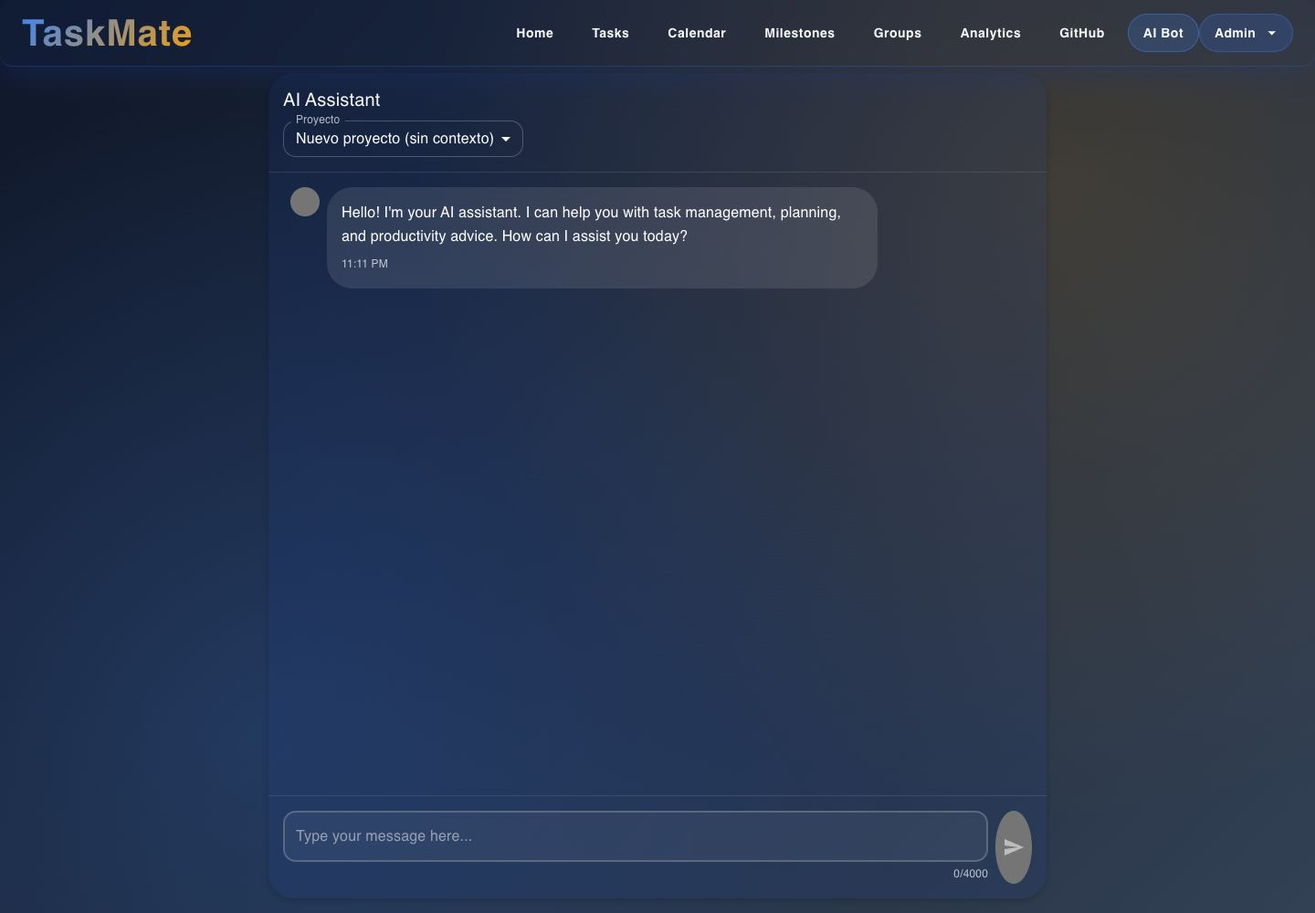
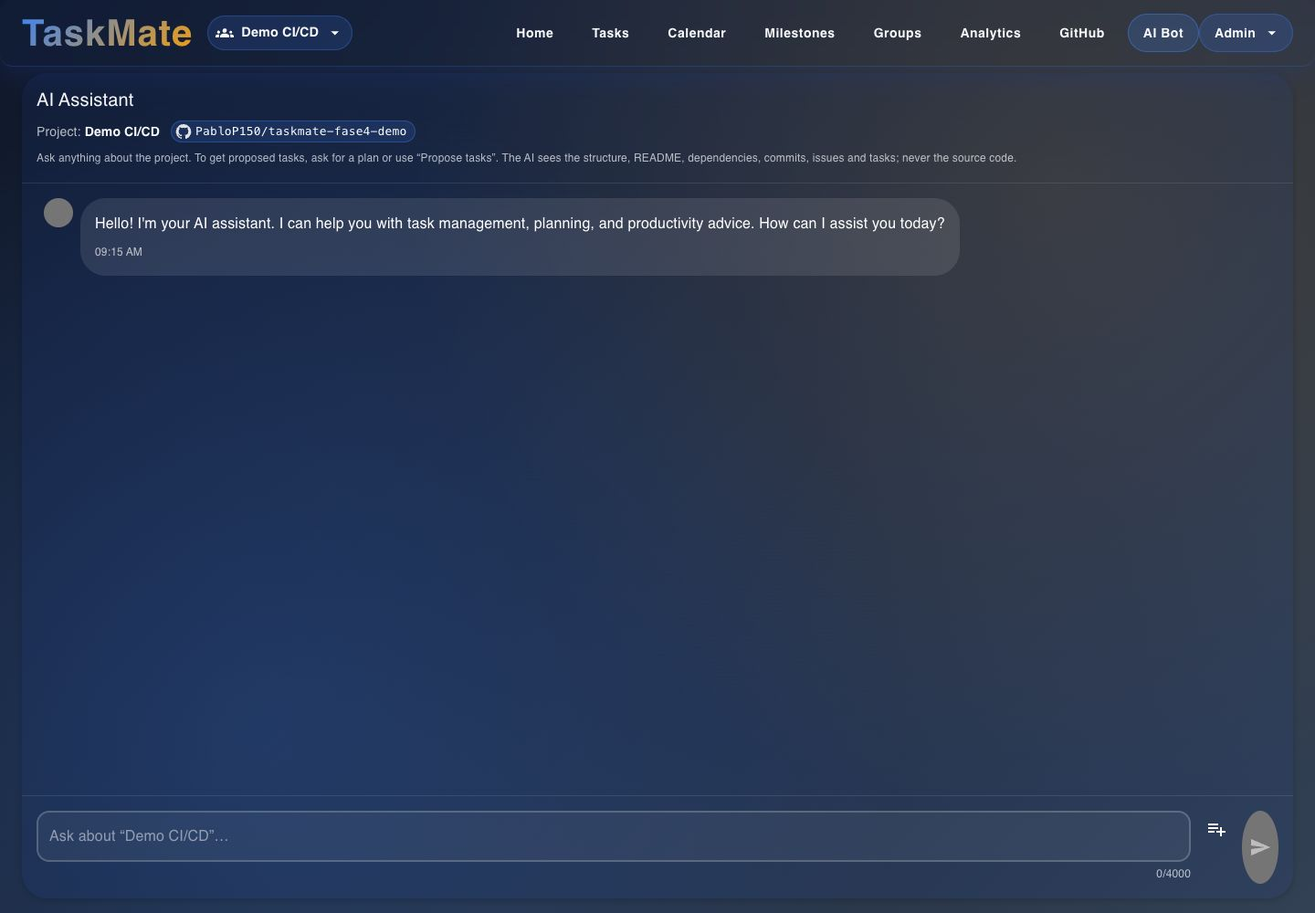
docs: retake the 18 UI screenshots in English and add 3 new ones
The 05-interfaz captures now show the English interface and the navbar group
selector; new: group selector menu, «Task files» with «AI on the branch», and
the «Vercel (monitoring)» tab. Captions describe what each capture shows.

diff --git a/documentacion/05-interfaz/README.md b/documentacion/05-interfaz/README.md
@@ -5,7 +5,7 @@
 ```mermaid
 flowchart LR
     G["00 · Visión general<br/>mapa de pantallas"] --> M["01–10 · Pantallas de cada módulo"]
-    C[("capturas/<br/>18 imágenes del 3–4 nov 2026<br/>(antes de la interfaz en inglés)")] -.-> G
+    C[("capturas/<br/>21 imágenes del 26 nov 2026<br/>(interfaz en inglés)")] -.-> G
     C -.-> M
 ```
 
@@ -34,37 +34,36 @@ flowchart LR
 
 ## Galería de capturas
 
-Capturas JPG de 1440 × 1000 en [`capturas/`](capturas/). El nombre dice quién la ve: `anon-` (sin sesión), `admin-` (admin del grupo) o `miembro-` (un miembro que no es admin).
+Capturas JPG de 1440 × 1000 en [`capturas/`](capturas/), tomadas el **26 nov 2026** con la interfaz en inglés (Chrome sin ventana). El nombre dice quién la ve: `anon-` (sin sesión), `admin-` (admin del grupo) o `miembro-` (`demo-miembro`, que no es admin).
 
-**Son del 3 y 4 nov 2026, anteriores a la interfaz en inglés (19 nov) y al selector de grupo del navbar.** Todavía no se han vuelto a tomar:
+- Las 19 con sesión muestran el selector de grupo junto al logo.
+- Lo que se ve en español son datos (nombres de grupos, tareas, commits y el README del repo de prueba), los pasos del workflow subido el 23 oct («Pruebas», «Instalar dependencias»…) y el botón «Vincular» de Vercel, que la app sigue mostrando así ([limitaciones de la interfaz](../01-proyecto/cierre-del-proyecto.md#interfaz)).
 
-- Ninguna de las 16 con sesión muestra el selector de grupo junto al logo.
-- 9 salen con los textos viejos en español: las de GitHub, las de CI/CD, la del chat y el aviso de analytics.
-- `anon-login` y `anon-registro` siguen al día: «Sign In» y «Create Account» no cambiaron.
-- La columna «Qué cambió» dice qué se ve distinto hoy.
+| Captura | Qué muestra | Página |
+|---|---|---|
+| <img src="capturas/anon-login.jpg" alt="Pantalla Sign In" width="220"> | «Welcome Back» / «Sign In» (`/`), sin sesión, con el enlace «Create Account» | [Usuarios](01-usuarios-y-acceso.md) |
+| <img src="capturas/anon-registro.jpg" alt="Pantalla Create Account" width="220"> | «Create Account» (`/register`): usuario, contraseña y «Confirm Password» | [Usuarios](01-usuarios-y-acceso.md) |
+| <img src="capturas/admin-home.jpg" alt="Inicio del admin con el selector de grupo en Demo CI/CD" width="220"> | Inicio (`/home`) del admin: barra con el selector en «Demo CI/CD», las 8 entradas y el menú «Admin» | [Usuarios](01-usuarios-y-acceso.md) |
+| <img src="capturas/admin-navbar-grupo.jpg" alt="Menú del selector de grupo abierto" width="220"> | El menú del selector de grupo abierto en `/home`: los 7 grupos del admin, palomita en «Demo CI/CD» y «Manage groups» al final | [Visión general](00-general.md), [Grupos](02-grupos-y-roles.md) |
+| <img src="capturas/admin-grupos.jpg" alt="Grupos del admin" width="220"> | `/groups` con «Demo CI/CD» activo: 3 miembros con «Assign/Edit Roles», «Delete Member», «Add User», «Leave Group» y «No roles defined.» con «New Role» | [Grupos](02-grupos-y-roles.md) |
+| <img src="capturas/admin-tareas.jpg" alt="Tareas del admin" width="220"> | `/tasks` del admin en «Fitness App»: «Tasks (5)», la lista «To Do» con 5 tarjetas, sin GitHub | [Tareas](03-tareas.md) |
+| <img src="capturas/miembro-tareas.jpg" alt="Tareas de un miembro" width="220"> | `/tasks` de `demo-miembro` en «Demo CI/CD», sin listas: «Add a list to start» | [Tareas](03-tareas.md) |
+| <img src="capturas/admin-tarea-archivos.jpg" alt="Diálogo Task files de la tarea Pipeline CI" width="220"> | Diálogo «Task files» de la tarea «Pipeline CI» (grupo «E-Component»): aviso de que aún no hay archivos registrados y el bloque «AI on the branch» con «Audit» y «Generate tests» | [GitHub](07-github.md), [IA sobre el código](10-ia-sobre-el-codigo.md) |
+| <img src="capturas/admin-hitos.jpg" alt="Hitos del admin" width="220"> | «Milestone Planner» (`/block-diagram`) en «Fitness App»: 7 hitos, cinco unidos por flechas «Prerequisite» y «Progressor»; «Design Complete» en verde al 100 % | [Hitos](04-hitos-y-calendario.md) |
+| <img src="capturas/admin-calendario.jpg" alt="Calendario" width="220"> | «Your Calendar» en enero de 2026 («Fitness App»): tareas e hitos en su fecha, con Today, Back y Next | [Hitos](04-hitos-y-calendario.md) |
+| <img src="capturas/admin-chat.jpg" alt="Chat con IA" width="220"> | «AI Assistant» con «Project: Demo CI/CD», el chip `PabloP150/taskmate-fase4-demo`, el saludo inicial y el cuadro «Ask about “Demo CI/CD”…» | [Chat](05-chat-ia.md) |
+| <img src="capturas/admin-analytics.jpg" alt="Panel de analytics" width="220"> | «Team Analytics Dashboard» del admin en «Fitness App»: 1 miembro, 5 tareas activas, 0.0 %, la barra del admin y el formulario de recomendaciones | [Analytics](06-analytics.md) |
+| <img src="capturas/miembro-analytics.jpg" alt="Aviso Team leaders only" width="220"> | El aviso «Team leaders only» que ve `demo-miembro` | [Analytics](06-analytics.md) |
+| <img src="capturas/admin-github-repositorio.jpg" alt="Pestaña Repository del admin" width="220"> | GitHub → Repository del admin: «Sync PRs», «Analyze with AI», las 5 pestañas, «Allow AI analysis» encendido y «Disconnect» | [GitHub](07-github.md) |
+| <img src="capturas/miembro-github-repositorio.jpg" alt="Pestaña Repository de un miembro" width="220"> | Repository de un miembro: «AI analysis: allowed» en lugar del interruptor y sin «Disconnect» | [GitHub](07-github.md) |
+| <img src="capturas/admin-github-archivos.jpg" alt="Pestaña Files" width="220"> | Files: árbol con «Filter files…» y el README con «View on GitHub» | [GitHub](07-github.md) |
+| <img src="capturas/admin-github-commits.jpg" alt="Pestaña Commits" width="220"> | Commits: «Recent commits» de `main`, con autor y fechas como «last month» | [GitHub](07-github.md) |
+| <img src="capturas/admin-github-cicd.jpg" alt="Pestaña CI/CD del admin" width="220"> | CI/CD del admin: «CI/CD pipeline» con «Edit pipeline», «Environments» con «Publish to production» y «Rollback…», «Production requests» y «Deploy history» | [CI/CD](08-cicd.md) |
+| <img src="capturas/admin-github-cicd-ejecucion.jpg" alt="Ejecución TaskMate CI/CD #9 fallida en el paso Pruebas" width="220"> | La ejecución «TaskMate CI/CD #9» (manual, rama `e2e/prueba-falla`) abierta: el job «CI (Node.js)» falló en «Pruebas», con sus anotaciones, «Re-run failed», «Hide log» y «Errors only» | [CI/CD](08-cicd.md) |
+| <img src="capturas/miembro-github-cicd.jpg" alt="Pestaña CI/CD de un miembro" width="220"> | CI/CD de un miembro: «Request production» en vez de «Publish to production», sin «Edit pipeline» ni «Rollback…»; abajo, «Runs» con «Run pipeline» | [CI/CD](08-cicd.md) |
+| <img src="capturas/admin-github-vercel.jpg" alt="Pestaña Vercel (monitoring) sin proyecto vinculado" width="220"> | «Vercel (monitoring)» del admin sin proyecto vinculado: la tarjeta «Deployments», el aviso para pegar el Project ID, el campo «Vercel Project ID» y «Vincular» | [CI/CD](08-cicd.md) |
 
-| Captura | Qué muestra | Qué cambió | Página |
-|---|---|---|---|
-| <img src="capturas/anon-login.jpg" alt="Pantalla Sign In" width="220"> | «Sign In» (`/`), sin sesión | Nada | [Usuarios](01-usuarios-y-acceso.md) |
-| <img src="capturas/anon-registro.jpg" alt="Pantalla Create Account" width="220"> | «Create Account» (`/register`), sin sesión | Nada | [Usuarios](01-usuarios-y-acceso.md) |
-| <img src="capturas/admin-home.jpg" alt="Inicio del admin" width="220"> | Inicio (`/home`) con la barra de navegación | Falta el selector de grupo junto al logo | [Usuarios](01-usuarios-y-acceso.md) |
-| <img src="capturas/admin-grupos.jpg" alt="Grupos del admin" width="220"> | `/groups` con «Demo CI/CD» como grupo activo | Ya no hay botones «Use»: basta un clic en el grupo. «Assign/Edit Rol» ahora es «Assign/Edit Roles» | [Grupos](02-grupos-y-roles.md) |
-| <img src="capturas/admin-tareas.jpg" alt="Tareas del admin" width="220"> | `/tasks` del admin, grupo «Fitness App» | Solo falta el selector de grupo | [Tareas](03-tareas.md) |
-| <img src="capturas/miembro-tareas.jpg" alt="Tareas de un miembro" width="220"> | `/tasks` de un miembro en «Demo CI/CD», sin listas todavía | Solo falta el selector de grupo | [Tareas](03-tareas.md) |
-| <img src="capturas/admin-hitos.jpg" alt="Hitos del admin" width="220"> | «Milestones»: barra para crear hitos y lienzo | Solo falta el selector de grupo | [Hitos](04-hitos-y-calendario.md) |
-| <img src="capturas/admin-calendario.jpg" alt="Calendario" width="220"> | «Calendar»: vista de mes con Today, Back y Next | Solo falta el selector de grupo | [Hitos](04-hitos-y-calendario.md) |
-| <img src="capturas/admin-chat.jpg" alt="Chat con IA" width="220"> | «AI Bot»: saludo inicial, sin proyecto de contexto | Ya no existe el selector «Proyecto» / «Nuevo proyecto (sin contexto)»: arriba dice «Project: &lt;grupo del navbar&gt;». El cuadro dice «Ask about “&lt;grupo&gt;”…» («Type your message…» sin grupo; antes «Type your message here...») y el chat ocupa todo el ancho | [Chat](05-chat-ia.md) |
-| <img src="capturas/admin-analytics.jpg" alt="Panel de analytics" width="220"> | Panel de analytics que ve el admin (es líder) | Solo falta el selector de grupo | [Analytics](06-analytics.md) |
-| <img src="capturas/miembro-analytics.jpg" alt="Aviso Team leaders only" width="220"> | Aviso que ve un miembro sin rol de líder | Sale en español («Solo líderes del equipo»); hoy dice «Team leaders only» | [Analytics](06-analytics.md) |
-| <img src="capturas/admin-github-repositorio.jpg" alt="Pestaña Repository del admin" width="220"> | GitHub → Repository, vista del admin | En español: hoy «Group: …», «Sync PRs», «Analyze with AI», «Repository», «Files» y «Allow AI analysis». El aviso de la IA ya no nombra a Groq. Falta la pestaña «Vercel (monitoring)» | [GitHub](07-github.md) |
-| <img src="capturas/miembro-github-repositorio.jpg" alt="Pestaña Repository de un miembro" width="220"> | Repository, vista de un miembro: sin «Disconnect» | En español, como la del admin; el estado que ve el miembro hoy dice «AI analysis: allowed». Falta la pestaña «Vercel (monitoring)» | [GitHub](07-github.md) |
-| <img src="capturas/admin-github-archivos.jpg" alt="Pestaña Files" width="220"> | Files: árbol y README | Encabezado y pestañas en español; falta «Vercel (monitoring)» | [GitHub](07-github.md) |
-| <img src="capturas/admin-github-commits.jpg" alt="Pestaña Commits" width="220"> | Commits de la rama por defecto | En español: hoy «Recent commits» y fechas como «2 weeks ago» | [GitHub](07-github.md) |
-| <img src="capturas/admin-github-cicd.jpg" alt="Pestaña CI/CD del admin" width="220"> | CI/CD del admin: pipeline, entornos y ejecuciones | En español: hoy «CI/CD pipeline», «Edit pipeline», «Environments», «Publish to production», «Deploy history» y «Runs». Las etapas salen en inglés, salvo «Pruebas» | [CI/CD](08-cicd.md) |
-| <img src="capturas/admin-github-cicd-ejecucion.jpg" alt="Detalle de una ejecución" width="220"> | Una ejecución abierta, con sus jobs y su log | «Ocultar log» y «Solo errores» ahora son «Hide log» y «Errors only». El nombre del job sale del YAML subido: con un pipeline subido después del cambio es «Deploy build», no «Build del deploy» | [CI/CD](08-cicd.md) |
-| <img src="capturas/miembro-github-cicd.jpg" alt="Pestaña CI/CD de un miembro" width="220"> | CI/CD de un miembro: «Request production» en vez de «Publish to production» | En español: hoy «Request production» y «Run pipeline» | [CI/CD](08-cicd.md) |
-
-No hay captura del aviso en vivo (módulo 9), del menú del selector de grupo, de la pestaña «Vercel (monitoring)», del diálogo «Task files» ni del panel «AI on the branch». Su aspecto se describe en sus páginas.
+No hay captura del aviso en vivo (módulo 9), de un diálogo «Task files» con archivos, de los resultados de «Audit», «Generate tests» y «Review PR», ni de «Vercel (monitoring)» con un proyecto vinculado. Su aspecto se describe en sus páginas.
 
 ## Diagramas e imágenes
 

diff --git a/documentacion/05-interfaz/08-cicd.md b/documentacion/05-interfaz/08-cicd.md
@@ -4,21 +4,25 @@
 
 ## Pantallas
 
-Las tres capturas son del 3 nov 2026, de antes de pasar la interfaz al inglés (19 nov 2026): en ellas los botones se ven en español. Abajo se citan los textos de ahora.
+Capturas del 26 nov 2026, grupo «Demo CI/CD» con el repositorio `PabloP150/taskmate-fase4-demo`. El pipeline se subió el 23 oct, antes del cambio de idioma, así que la etapa y los pasos que vienen del YAML conservan sus nombres en español («Pruebas», «Instalar dependencias», «Análisis estático»).
 
-**Vista del admin:** tarjeta **CI/CD pipeline** con «Edit pipeline», y tarjeta **Environments** con «Publish to production», «Rollback…», las **Production requests** y el «Deploy history». La lista de **Runs** sigue debajo.
+**Vista del admin:** tarjeta **CI/CD pipeline** con sus etapas, «Configured by», el archivo `.github/workflows/taskmate-ci.yml`, «Site:» y «Edit pipeline»; tarjeta **Environments** con staging y producción en «Live», «Publish to production», «Rollback…», las **Production requests** (una «Rejected» y una «Approved») y el «Deploy history». La lista de **Runs** sigue debajo.
 
-![Pestaña CI/CD vista por el admin del grupo](capturas/admin-github-cicd.jpg)
+![Pestaña CI/CD vista por el admin: CI/CD pipeline, Environments con staging y producción en Live, Production requests y Deploy history](capturas/admin-github-cicd.jpg)
 
-**Una ejecución abierta:** el job «Deploy build» con sus pasos (los saltados llevan un círculo gris) y su log abierto, con «Hide log» y «Errors only». En la captura el job se llama «Build del deploy»: es un workflow subido antes del cambio de idioma.
+**Una ejecución abierta:** «TaskMate CI/CD #9», lanzada a mano en la rama `e2e/prueba-falla`. El job «CI (Node.js)» falló en el paso «Pruebas»; los pasos saltados («Build», «Post Node.js 24») llevan un círculo gris. Debajo, las anotaciones (dos «Error» y un «Notice» con archivo y línea), «Hide log», el interruptor «Errors only» y el log abierto. Arriba, «View the run on GitHub» y «Re-run failed».
 
-![Detalle de una ejecución con sus jobs](capturas/admin-github-cicd-ejecucion.jpg)
+![Ejecución TaskMate CI/CD #9 en la rama e2e/prueba-falla: el job CI (Node.js) falló en el paso Pruebas, con sus anotaciones y el log abierto](capturas/admin-github-cicd-ejecucion.jpg)
 
-**Vista de un miembro:** sin «Edit pipeline» ni «Rollback…»; en staging aparece «Request production» en lugar de «Publish to production». «Run pipeline» sigue disponible.
+**Vista de un miembro:** sin «Edit pipeline» ni «Rollback…»; en staging aparece «Request production» en lugar de «Publish to production». «Run pipeline» sigue disponible, abajo en **Runs**, junto a los filtros «Workflow» y «Status».
 
-![Pestaña CI/CD vista por un miembro](capturas/miembro-github-cicd.jpg)
+![Pestaña CI/CD vista por un miembro: Request production en staging, sin Edit pipeline ni Rollback, y Run pipeline en Runs](capturas/miembro-github-cicd.jpg)
 
-**Pestaña Vercel (monitoring)** (todavía sin captura): una tarjeta **Deployments** con «Vercel project: <id>», «Refresh» y, solo para el admin, «Unlink». Debajo, hasta 20 despliegues, del más nuevo al más viejo.
+**Pestaña Vercel (monitoring), sin proyecto vinculado (admin):** la tarjeta **Deployments** con el aviso «Paste the Vercel Project ID (Settings → General) and add the webhook /api/deploy/webhook/vercel in Vercel for deployment events.», el campo «Vercel Project ID» y el botón «Vincular», que la app todavía muestra en español.
+
+![Pestaña Vercel (monitoring) del admin sin proyecto vinculado: aviso, campo Vercel Project ID y botón Vincular](capturas/admin-github-vercel.jpg)
+
+**Con un proyecto vinculado** (sin captura): la misma tarjeta **Deployments** con «Vercel project: <id>», «Refresh» y, solo para el admin, «Unlink». Debajo, hasta 20 despliegues, del más nuevo al más viejo.
 
 ## Qué puedes hacer
 

diff --git a/documentacion/05-interfaz/07-github.md b/documentacion/05-interfaz/07-github.md
@@ -4,27 +4,31 @@
 
 ## Pantallas
 
-Las capturas son del 3–4 nov 2026, de antes de pasar la interfaz al inglés (19 nov): sus textos están en español. Los textos citados en esta página son los actuales.
+Capturas del 26 nov 2026, grupo «Demo CI/CD» con el repositorio `PabloP150/taskmate-fase4-demo`.
 
-**Repository, vista del admin.** Arriba, «Sync PRs» y «Analyze with AI». En la tarjeta: el interruptor «Allow AI analysis», los datos del repositorio y «Disconnect».
+**Repository, vista del admin.** Arriba, «GitHub» con el chip «Group: Demo CI/CD», «Sync PRs» y «Analyze with AI», y las 5 pestañas. En la tarjeta: el repositorio («Public»), el interruptor «Allow AI analysis» encendido, «Default branch», «App installation», «Connected by» y «Disconnect».
 
 ![Pestaña Repository vista por el admin](capturas/admin-github-repositorio.jpg)
 
-**Repository, vista de un miembro.** Los mismos datos y los mismos botones de arriba. En lugar del interruptor dice «AI analysis: allowed» (u «off») y «Only the group admin can change this permission.». No hay «Disconnect».
+**Repository, vista de un miembro.** Los mismos datos y los mismos botones de arriba. En lugar del interruptor dice «AI analysis: allowed» (u «off») y, al final del texto de abajo, «Only the group admin can change this permission.». No hay «Disconnect».
 
 ![Pestaña Repository vista por un miembro](capturas/miembro-github-repositorio.jpg)
 
-**Files.** Árbol con filtro («Filter files…») a la izquierda; a la derecha, el README o el archivo elegido, con «View on GitHub».
+**Files.** Árbol con filtro («Filter files…») y el botón «README» a la izquierda; a la derecha, el README o el archivo elegido, con su tamaño y «View on GitHub». El README del repo de prueba está en español.
 
 ![Pestaña Files con el README](capturas/admin-github-archivos.jpg)
 
-**Commits.** «Recent commits» de la rama por defecto, con su autor y hace cuánto (en inglés: «2 weeks ago», «just now»).
+**Commits.** «Recent commits» de la rama por defecto, con el SHA corto, el mensaje, el autor y hace cuánto (en inglés: «last month», «2 months ago»). Los mensajes son los del repo, en español.
 
 ![Pestaña Commits](capturas/admin-github-commits.jpg)
 
 Las pestañas CI/CD y «Vercel (monitoring)» son del módulo [CI/CD](08-cicd.md).
 
-**Task files.** Diálogo que abre el icono «View task files» de una tarea en `/tasks`: título «Task files» con el nombre de la tarea y el enlace «PR #N»; debajo, «N files» con el total de +/− y la lista de archivos. Abajo va el panel «AI on the branch». No hay captura todavía.
+**Task files.** Diálogo que abre el icono «View task files» de una tarea en `/tasks`: título «Task files» con el nombre de la tarea y, si hay PR, el enlace «PR #N»; debajo, «N files» con el total de +/− y la lista de archivos. Abajo va el panel «AI on the branch».
+
+![Diálogo Task files de la tarea Pipeline CI: aviso de que no hay archivos registrados y el bloque AI on the branch con Audit y Generate tests](capturas/admin-tarea-archivos.jpg)
+
+En la captura (grupo «E-Component», tarea «Pipeline CI») la rama aún no tiene PR ni archivos registrados: sale el aviso «This task has no recorded files yet. They are recorded automatically when the pull request of its branch is merged.» y, abajo, «AI on the branch» con «Audit» y «Generate tests», sin «Review PR».
 
 ## Qué puedes hacer
 

diff --git a/documentacion/05-interfaz/00-general.md b/documentacion/05-interfaz/00-general.md
@@ -62,7 +62,7 @@ flowchart TD
 |---|---|
 | ![Pantalla de login](capturas/anon-login.jpg) | ![Pantalla de inicio de un admin](capturas/admin-home.jpg) |
 
-Las capturas son del 3–4 nov 2026, anteriores a la interfaz en inglés: en la de Inicio todavía no está el selector de grupo junto al logo ([qué cambió en cada captura](README.md#galería-de-capturas)).
+Capturas del 26 nov 2026. En Inicio, junto al logo, el selector de grupo muestra «Demo CI/CD» ([todas las capturas](README.md#galería-de-capturas)).
 
 ## El marco común
 
@@ -74,6 +74,10 @@ Con sesión, todas las pantallas comparten cuatro piezas:
 | **Selector de grupo** (junto al logo) | Muestra el grupo activo, o «Select a group» si no hay. Su menú lista tus grupos, con una palomita en el activo, y termina en **Manage groups**, que lleva a `/groups`. Elegir otro grupo cambia el de todas las pantallas. No tiene opción «ninguno» | `src/components/NavGroupSelector.jsx` |
 | **Grupo activo** | El grupo con el que trabajan Tasks, Calendar, Milestones, Analytics, GitHub y el chat. Se cambia con el selector de grupo o con un clic en el grupo dentro de **Groups**. Al iniciar sesión se activa el primer grupo de tu lista | `src/components/GroupContext.jsx` |
 | **Avisos de CI/CD** | Mensajes abajo a la derecha (fallos, deploys, solicitudes). **View** activa ese grupo y abre su pestaña CI/CD; **Open site** abre el sitio publicado, si el aviso lo trae | `src/components/realtime/CicdNotifications.jsx` |
+
+**El selector de grupo abierto** (aquí en `/home`): los 7 grupos del admin, la palomita en el activo («Demo CI/CD») y, separado abajo, «Manage groups».
+
+![Menú del selector de grupo abierto junto al logo: siete grupos, palomita en Demo CI/CD y Manage groups al final](capturas/admin-navbar-grupo.jpg)
 
 - Sin grupo activo, cada pantalla pide elegir uno (por ejemplo, «Select a group to manage tasks.»). Casi no pasa: al registrarte se crea tu grupo personal y al iniciar sesión se activa el primero.
 - El chat no tiene selector propio: usa el grupo del navbar, lo muestra arriba como «Project: &lt;grupo&gt;» y cambia de proyecto cuando cambias el grupo. «Analyze with AI» de `/github` también fija ese grupo antes de abrir el chat.
@@ -104,9 +108,7 @@ Con sesión, todas las pantallas comparten cuatro piezas:
 
 | Admin (cuenta como líder) | Miembro sin rol de líder |
 |---|---|
-| ![Panel de analytics que ve el admin](capturas/admin-analytics.jpg) | ![Aviso «Team leaders only» que ve un miembro (captura anterior, en español)](capturas/miembro-analytics.jpg) |
-
-La captura del miembro es del 4 nov 2026 y todavía dice «Solo líderes del equipo». Hoy dice «Team leaders only».
+| ![Panel de analytics que ve el admin](capturas/admin-analytics.jpg) | ![Aviso «Team leaders only» que ve un miembro](capturas/miembro-analytics.jpg) |
 
 ## Rutas que redirigen
 

diff --git a/documentacion/05-interfaz/06-analytics.md b/documentacion/05-interfaz/06-analytics.md
@@ -4,16 +4,13 @@
 
 ## Pantallas
 
-**Panel del líder (`/analytics`).** El admin es líder de su grupo. Arriba, tres tarjetas: 1 miembro, 5 tareas activas y 0.0 % de avance. «Category Expertise» muestra al mejor de cada categoría (aquí, frontend con 60/100). Abajo está el formulario de recomendaciones.
-- La captura es del 3 nov 2026, de antes de la corrección del 4 nov: ahí «Team Workload Distribution» sale vacía («No workload data available») porque solo contaba a los miembros con al menos un rol en el grupo, y la experiencia sumaba todos los grupos de la persona. Hoy el panel muestra una barra por cada miembro.
-- Los textos del panel no cambiaron con la interfaz en inglés, pero la barra todavía no tenía el selector de grupo junto al logo.
+**Panel del líder (`/analytics`).** El admin es líder de su grupo, aquí «Fitness App». Arriba, tres tarjetas: 1 miembro, 5 tareas activas y 0.0 % de avance. «Team Workload Distribution» tiene una barra, la del admin («No role», «0/5 (0%)»), y «Category Expertise» dice «No expertise data available». Abajo está el formulario «AI Task Assignment Recommendations».
 
 ![Panel de analytics del admin](capturas/admin-analytics.jpg)
 
-**Vista de un miembro (`/analytics`).** La API responde 403 y la pantalla lo cambia por un aviso: «Team leaders only» y, debajo, «The analytics dashboard is only available to the group leader. Ask your leader to review the metrics, or switch to a group you manage.». El navegador igual registra el 403 en la consola.
-- La captura es del 4 nov 2026, anterior a la interfaz en inglés: muestra el aviso viejo en español («Solo líderes del equipo») y la barra sin el selector de grupo.
+**Vista de un miembro (`/analytics`).** La API responde 403 y la pantalla lo cambia por un aviso: «Team leaders only» y, debajo, «The analytics dashboard is only available to the group leader. Ask your leader to review the metrics, or switch to a group you manage.». El navegador igual registra el 403 en la consola. En la captura, `demo-miembro` con «Demo CI/CD».
 
-![Aviso para un miembro, todavía en español («Solo líderes del equipo»); hoy dice «Team leaders only»](capturas/miembro-analytics.jpg)
+![Aviso «Team leaders only» que ve demo-miembro en el grupo Demo CI/CD](capturas/miembro-analytics.jpg)
 
 Partes del panel, de arriba abajo:
 - **Encabezado:** «Team Analytics Dashboard», el filtro de rol («All Roles») y el botón «Refresh».

diff --git a/documentacion/05-interfaz/04-hitos-y-calendario.md b/documentacion/05-interfaz/04-hitos-y-calendario.md
@@ -6,23 +6,22 @@
 
 **Hitos: `/block-diagram`** (menú «Milestones» o tarjeta «Milestone Viewer» del inicio)
 
-![Pantalla de hitos: barra para crear hitos, botón Import Task y lienzo de React Flow](capturas/admin-hitos.jpg)
+![Pantalla Milestone Planner del grupo Fitness App: barra para crear hitos, botón Import Task y siete hitos, cinco de ellos unidos por flechas](capturas/admin-hitos.jpg)
 
 - Barra de arriba: nombre, descripción, fecha y el botón para crear. El botón dice qué falta: «Select a group first», «Name required» o «Date required»; con todo listo dice «Add Milestone».
 - «Import Task»: lista las tareas del grupo que todavía no son hito.
 - Lienzo: cada tarjeta muestra nombre, descripción, «Deadline», «Progress: N %» y el botón «Edit». Con 100 % se pone verde y dice «✓ Completed».
 - Cada flecha lleva una etiqueta, «Prerequisite» o «Progressor». Un clic la cambia.
 - Abajo a la izquierda: acercar, alejar, ajustar a la vista y bloquear el lienzo.
-- En la captura el grupo activo todavía no tiene hitos.
-- La captura es del 3 nov 2026: los textos de la pantalla no cambiaron, pero la barra todavía no tenía el selector de grupo junto al logo.
+- En la captura (título «Milestone Planner», grupo «Fitness App») hay 7 hitos: cinco unidos por cuatro flechas (tres «Prerequisite» y una «Progressor») y dos sueltos, «Setup Done» y «Launch Ready»; «Design Complete» está al 100 %, en verde. El botón de crear dice «Name required» porque la barra está vacía.
 
 **Calendario: `/calendar`** (menú «Calendar» o tarjeta «Calendar View» del inicio)
 
-![Pantalla del calendario: vista de mes con los botones Today, Back y Next](capturas/admin-calendario.jpg)
+![Pantalla Your Calendar en enero de 2026: vista de mes con Today, Back y Next y las fechas de tareas e hitos de Fitness App](capturas/admin-calendario.jpg)
 
 - Solo vista de mes, con «Today», «Back» y «Next».
 - Cada evento es un hito o una tarea activa, con su nombre, en su fecha. Es de solo lectura.
-- En la captura el grupo activo no tiene fechas en noviembre de 2026. Es del 3 nov 2026, anterior al selector de grupo de la barra.
+- En la captura («Your Calendar», grupo «Fitness App») se ve enero de 2026 con tareas («Implement Core», «Test Core», «Test Advanced») e hitos («Core Features», «Advanced Features») en su fecha.
 
 ## Qué puedes hacer
 

diff --git a/documentacion/05-interfaz/10-ia-sobre-el-codigo.md b/documentacion/05-interfaz/10-ia-sobre-el-codigo.md
@@ -4,9 +4,11 @@
 
 ## Pantallas
 
-**No hay captura propia de este módulo.** Las capturas de [`capturas/`](capturas/) son del 3 y 4 nov 2026, antes de que existiera este panel y de que la interfaz pasara al inglés. Esta es la descripción del panel según el código (`TaskAiPanel.jsx`).
+![Diálogo Task files de la tarea Pipeline CI con el bloque AI on the branch: botones Audit y Generate tests](capturas/admin-tarea-archivos.jpg)
 
-**Cómo se llega.** En `/tasks`, una tarea con rama muestra el botón-icono «View task files» junto al chip de la rama. Abre el diálogo «Task files», con el nombre de la tarea y el enlace «PR #N». Arriba van los archivos de la tarea ([módulo GitHub](07-github.md)); debajo, el panel «AI on the branch».
+*Captura del 26 nov 2026: el diálogo «Task files» de la tarea «Pipeline CI» (grupo «E-Component»), todavía sin archivos registrados. Abajo, el bloque «AI on the branch» con «Audit» y «Generate tests»; «Review PR» no sale porque la tarea no tiene un PR abierto. No hay captura de los resultados: lo que sigue los describe según el código (`TaskAiPanel.jsx`).*
+
+**Cómo se llega.** En `/tasks`, una tarea con rama muestra el botón-icono «View task files» junto al chip de la rama. Abre el diálogo «Task files», con el nombre de la tarea y, si hay PR, el enlace «PR #N». Arriba van los archivos de la tarea ([módulo GitHub](07-github.md)); debajo, el panel «AI on the branch».
 
 **El panel.** El título «AI on the branch» y tres botones:
 

diff --git a/documentacion/05-interfaz/02-grupos-y-roles.md b/documentacion/05-interfaz/02-grupos-y-roles.md
@@ -4,7 +4,11 @@
 
 ![Pantalla de grupos vista por el admin](capturas/admin-grupos.jpg)
 
-*Admin en `/groups`. A la izquierda, la lista de sus grupos; «Demo CI/CD» es el grupo activo. A la derecha, sus tres miembros y la sección **Group Roles**, todavía sin roles. La captura es del 3 nov 2026, anterior a la interfaz en inglés: todavía muestra los botones **Use** (ya no existen: basta un clic en el grupo), «Assign/Edit Rol» (hoy «Assign/Edit Roles») y la barra sin el selector de grupo ([qué cambió en cada captura](README.md#galería-de-capturas)).*
+*Admin en `/groups`. A la izquierda, la tarjeta **Groups** con sus 7 grupos y **Create**; «Demo CI/CD» es el activo y también sale en el selector junto al logo. A la derecha, **Delete Member**, **Add User** y **Leave Group**, sus tres miembros (`e2e-miembro`, `Admin` y `demo-miembro`), cada uno con su insignia y «Assign/Edit Roles», y la sección **Group Roles** con «No roles defined.» y **New Role**.*
+
+![Menú del selector de grupo abierto: siete grupos, palomita en Demo CI/CD y Manage groups al final](capturas/admin-navbar-grupo.jpg)
+
+*El selector de grupo abierto junto al logo (aquí en `/home`): los mismos 7 grupos, con la palomita en el activo, y **Manage groups** al final, que lleva a esta pantalla.*
 
 ```mermaid
 flowchart TD

diff --git a/documentacion/05-interfaz/03-tareas.md b/documentacion/05-interfaz/03-tareas.md
@@ -12,7 +12,9 @@
 
 ![Pantalla de tareas de un miembro](capturas/miembro-tareas.jpg)
 
-Las dos capturas son del 3 y 4 nov 2026, antes de la interfaz en inglés. Los textos que se ven en ellas ya estaban en inglés y no cambiaron, pero la navbar todavía no tenía el selector de grupo.
+**Diálogo «Task files» (`/tasks`, grupo «E-Component»).** Se abrió con «View task files» en la tarea «Pipeline CI». Su rama todavía no tiene archivos registrados, así que sale el aviso «This task has no recorded files yet…»; debajo, «AI on the branch» con «Audit» y «Generate tests» («Review PR» no aparece: no hay PR abierto). Atrás se ven otras tarjetas del grupo; las que aún no tienen rama llevan un quinto botón, «Create branch on GitHub», y una muestra el chip de su rama (`tm/ci-github-actions-…`) con el ícono de archivos. Detalle en [GitHub](07-github.md).
+
+![Diálogo Task files de la tarea Pipeline CI: aviso de que no hay archivos registrados y el bloque AI on the branch con Audit y Generate tests](capturas/admin-tarea-archivos.jpg)
 
 Partes de la pantalla, de arriba abajo:
 - **Encabezado:** «Tasks (n) - grupo», donde n cuenta las tareas que se ven con el filtro actual, y el botón del embudo («Filters»).

diff --git a/documentacion/05-interfaz/05-chat-ia.md b/documentacion/05-interfaz/05-chat-ia.md
@@ -2,9 +2,9 @@
 
 **En una frase:** la pantalla «AI Bot» (`/chat`) es un chat que sigue al grupo elegido en la barra de navegación: arriba muestra el proyecto, en el centro la conversación (las respuestas llegan mientras se escriben) y abajo el cuadro de texto con el botón «Propose tasks».
 
-![Pantalla del chat con IA, vista del admin](capturas/admin-chat.jpg)
+![Pantalla del chat con IA, vista del admin: Project Demo CI/CD con su repositorio y el saludo inicial](capturas/admin-chat.jpg)
 
-*Captura del 3 nov 2026, anterior a la interfaz en inglés: muestra el selector «Proyecto» en «Nuevo proyecto (sin contexto)», que ya no existe. Hoy el encabezado dice «Project: <grupo>», el grupo se elige en la barra y el chat ocupa todo el ancho.*
+*Admin con «Demo CI/CD» elegido en la barra. Arriba, «AI Assistant», «Project: Demo CI/CD», el chip `PabloP150/taskmate-fase4-demo` y el texto de ayuda (repo conectado y análisis permitido). En el centro, el saludo inicial de la IA. Abajo, el cuadro «Ask about “Demo CI/CD”…» con el contador 0/4000, «Propose tasks» (ícono de lista con un +) y «Send message».*
 
 ```mermaid
 flowchart TD

diff --git a/documentacion/README.md b/documentacion/README.md
@@ -63,7 +63,7 @@ Dónde cae lo de la línea de Christian: el chat con el modelo local va en el 5,
 - Cada página abre con **«En una frase»** y sus diagramas, y sigue con «Qué hace», «Cómo funciona», «Dónde está en el código» y «Para saber más».
 - Los diagramas son bloques Mermaid. Cada carpeta guarda su copia en PNG en `imagenes/`.
 - La arquitectura con íconos se dibuja desde `02-arquitectura/fuentes/*.mmd`.
-- Las docs están en español, pero los textos de la app se citan en inglés, tal como los muestra la interfaz desde el 19 nov 2026. Las capturas de `05-interfaz/capturas/` son anteriores a ese cambio.
+- Las docs están en español, pero los textos de la app se citan en inglés, tal como los muestra la interfaz desde el 19 nov 2026. Las capturas de `05-interfaz/capturas/` se retomaron el 26 nov 2026 y ya muestran la interfaz en inglés y el selector de grupo.
 - Las limitaciones y los pendientes viven en un solo lugar: el [cierre de la línea de Pablo y estado](01-proyecto/cierre-del-proyecto.md#limitaciones-conocidas).
 - Si algo no coincide con el código, manda el código.
 

diff --git a/documentacion/05-interfaz/09-tiempo-real-y-avisos.md b/documentacion/05-interfaz/09-tiempo-real-y-avisos.md
@@ -4,7 +4,7 @@
 
 ## Pantallas
 
-Las tres capturas son del 3–4 nov 2026, anteriores a la interfaz en inglés: muestran los textos viejos en español. Abajo se citan los textos actuales.
+Las tres capturas son del 26 nov 2026 (grupo «Demo CI/CD») y son las mismas del módulo [CI/CD](08-cicd.md).
 
 **Pestaña CI/CD (admin):** «Environments» y «Production requests» se recargan con los eventos `deployment` y `deploy_request`; «Runs», con `ci_run`.
 
@@ -12,7 +12,7 @@ Las tres capturas son del 3–4 nov 2026, anteriores a la interfaz en inglés: m
 
 **Detalle de una ejecución:** los jobs y sus pasos se recargan con los `ci_run` y `ci_job` de esa ejecución.
 
-![Detalle de una ejecución con su log](capturas/admin-github-cicd-ejecucion.jpg)
+![Ejecución TaskMate CI/CD #9: el job CI (Node.js) falló en el paso Pruebas, con el log abierto](capturas/admin-github-cicd-ejecucion.jpg)
 
 **Pestaña CI/CD (miembro):** recibe los mismos eventos y se recarga igual. Solo cambian los botones: «Request production» en vez de «Publish to production», y sin «Edit pipeline» ni «Rollback…».
 
